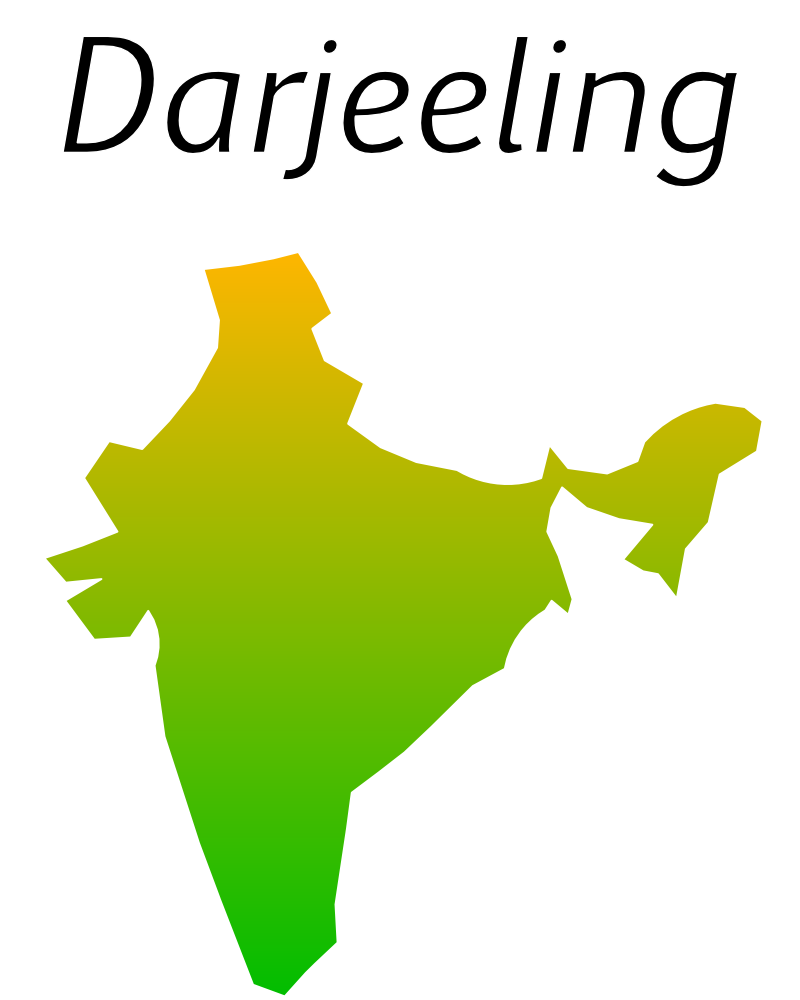
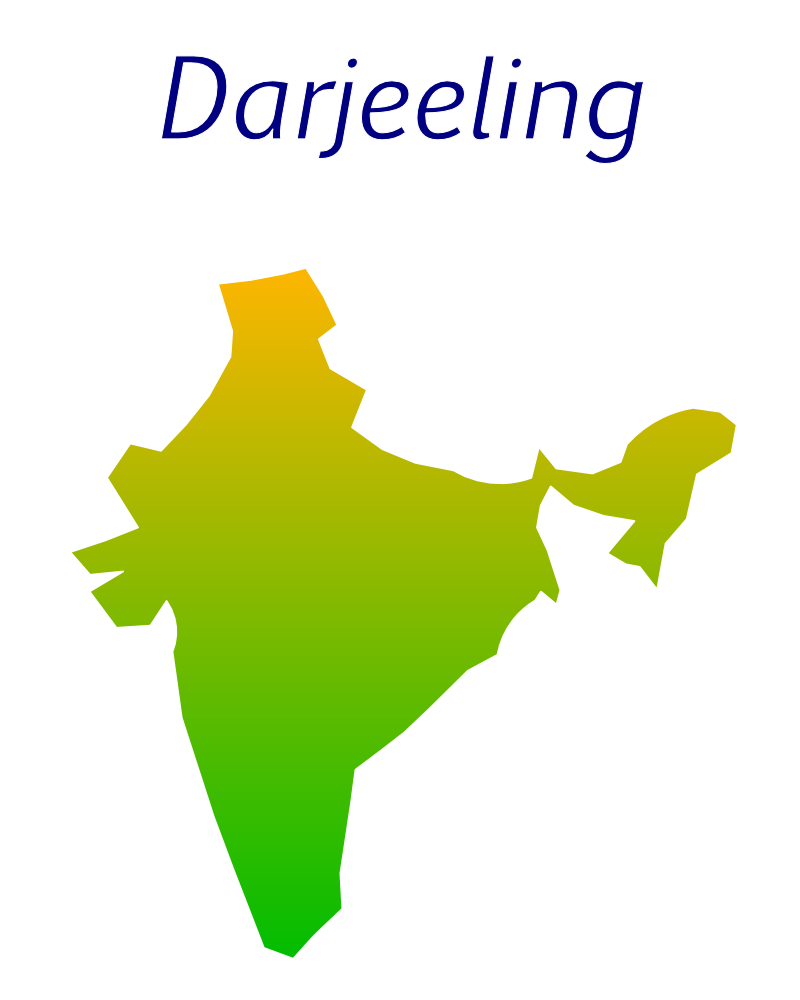
Fixed header

diff --git a/darjeeling.html b/darjeeling.html
@@ -24,7 +24,7 @@
 </div>
 <img class="bg_img" src="images/background_india.png" style="margin-top:200px;z-index:-1"/>
 
-<div class="info info_left"><div id ="introduction" class="panel"></div>
+<div class="info info_left"><div id ="introduction" class="info_anchor"></div>
     <h1>Introduction</h1>
     As most people know, this scenic place blessed with it's natural beauty, is home to world famous Darjeeling tea and the Darjeeling 
     Himalayan Railway- A world heritage. Darjeeling also has the largest orchid species, for example Cypripedium, Dendrobidium,
@@ -32,7 +32,7 @@
     it also has Tiger Hill so tall that you could get a glimpse over to Mount Everest.  
 </div>
 
-<div class="info info_right"><div id ="places" class="panel"></div>
+<div class="info info_right"><div id ="places" class="info_anchor"></div>
     <h1>Places to Visit</h1>
     If you like climbing and beatiful views then Mount Kanchenjunga and Tiger Hill are the mountains for you! You get the best of 
     both worlds,the view,the excercise,and the beauty of it! Toy train coming from siliguri is liked by children and elders. Because of 
@@ -40,7 +40,7 @@
     tourists to go.You find out lots of interesting information about Darjeeling Tea, Darjeeling itself and a bit about India
 </div>
 
-<div class="info info_left"><div id ="fast_facts" class="panel"></div>
+<div class="info info_left"><div id ="fast_facts" class="info_anchor"></div>
      <h1>Fast Facts</h1>
      <ul>
         <li><b>Population:</b> 132,016</li>
@@ -52,7 +52,7 @@
     </ul>
 </div>
 
-<div class="info info_right"><div id ="history" class="panel"></div>
+<div class="info info_right"><div id ="history" class="info_anchor"></div>
     <h1>History</h1>
     <h3>The Gurkha War</h3>
     The Gorkha War also known as Anglo Nepal War broke out in 1814 and ended 1816, The fight took place in Nepal. It was a fight between the Kingdom of Nepal now called the Federal Democratic Republic Nepal against British East Company.
@@ -61,12 +61,16 @@
 </div>
 
 
-<div class="info info_left"><div id ="geography" class="panel"></div>
+<div class="info info_left"><div id ="geography" class="info_anchor"></div>
     <h1>Geography</h1>
     <img src="images/West_Bengal_location_map.svg.png"/>
     <a href="http://upload.wikimedia.org/wikipedia/commons/2/2b/Darjeeling.ogg">How to pronounce "Darjeeling"</a>
     Darjeeling's geo..
 </div>
+
+<footer>
+<div id="footer">&copy; Tamyah Jones 2010</div>
+</footer>
 
 </div>
 </body>

diff --git a/style.css b/style.css
@@ -1,5 +1,5 @@
 body {
-    background-color: #aaf;
+    background-color: #6698FF;
 }
 
 #main {
@@ -21,7 +21,6 @@ body {
     -moz-box-shadow:    0px 0px 5px 10px white;
     -webkit-box-shadow: 0px 0px 5px 10px white;
     box-shadow:         0px 0px 5px 10px white;
-
 }
 
 #title_img {
@@ -33,10 +32,20 @@ body {
 }
 
 #toc {
-    width:800px;
-    position: fixed; top: 170px; left: auto; right: auto;
-    padding:10px;
+    width:1200px;
+    position: fixed; top: 160px; left: auto; right: auto;
+    padding-right:10px;
     z-index:3;
+    font-size:2em;
+}
+
+#toc a {
+    text-decoration: none;
+    color:rgb(0,0,128);
+}
+
+#toc a:hover {
+    color:rgba(0,0,128,0.4);
 }
 
 #toc ul {
@@ -50,11 +59,6 @@ body {
     margin-right: 2em;
     bullet: none;
 }
-.panel {
-    position:relative;
-    top: -250px;
-}
-
 
 .bg_img {
     position: fixed; top: 0px; left: auto; right: auto;
@@ -63,25 +67,38 @@ body {
 }
 
 .info {
-    width: 500px;
-    border: 5px rgba(255,255,255,1) solid; 
-    border-collapse: collapse; 
-    border-spacing: 0px; 
-    border-radius: 5px; 
-    -moz-border-radius: 5px; 
-    padding: 5px; 
-    color: #000; 
+    width: 600px;
+    border: 5px rgba(255,255,255,0.7) solid;
+    border-collapse: collapse;
+    border-spacing: 0px;
+    border-radius: 15px;
+    -moz-border-radius: 15px;
+    padding: 10px;
+    color: #000;
     background-color: rgba(255, 255, 255,0.5);
     margin-bottom: 100px;
 }
+
+.info_anchor {
+    position:relative;
+    top: -250px;
+}
+
 
 .info_left {
 }
 
 .info_right {
-    margin-left: 500px;
+    margin-left: 400px;
 }
 
 .info h1 {
+color:rgb(0,0,128);
     text-align:center; 
+}
+
+#footer{
+    color: rgba(0,0,0,0.5);
+    padding: 20px;
+    text-align: center;
 }
